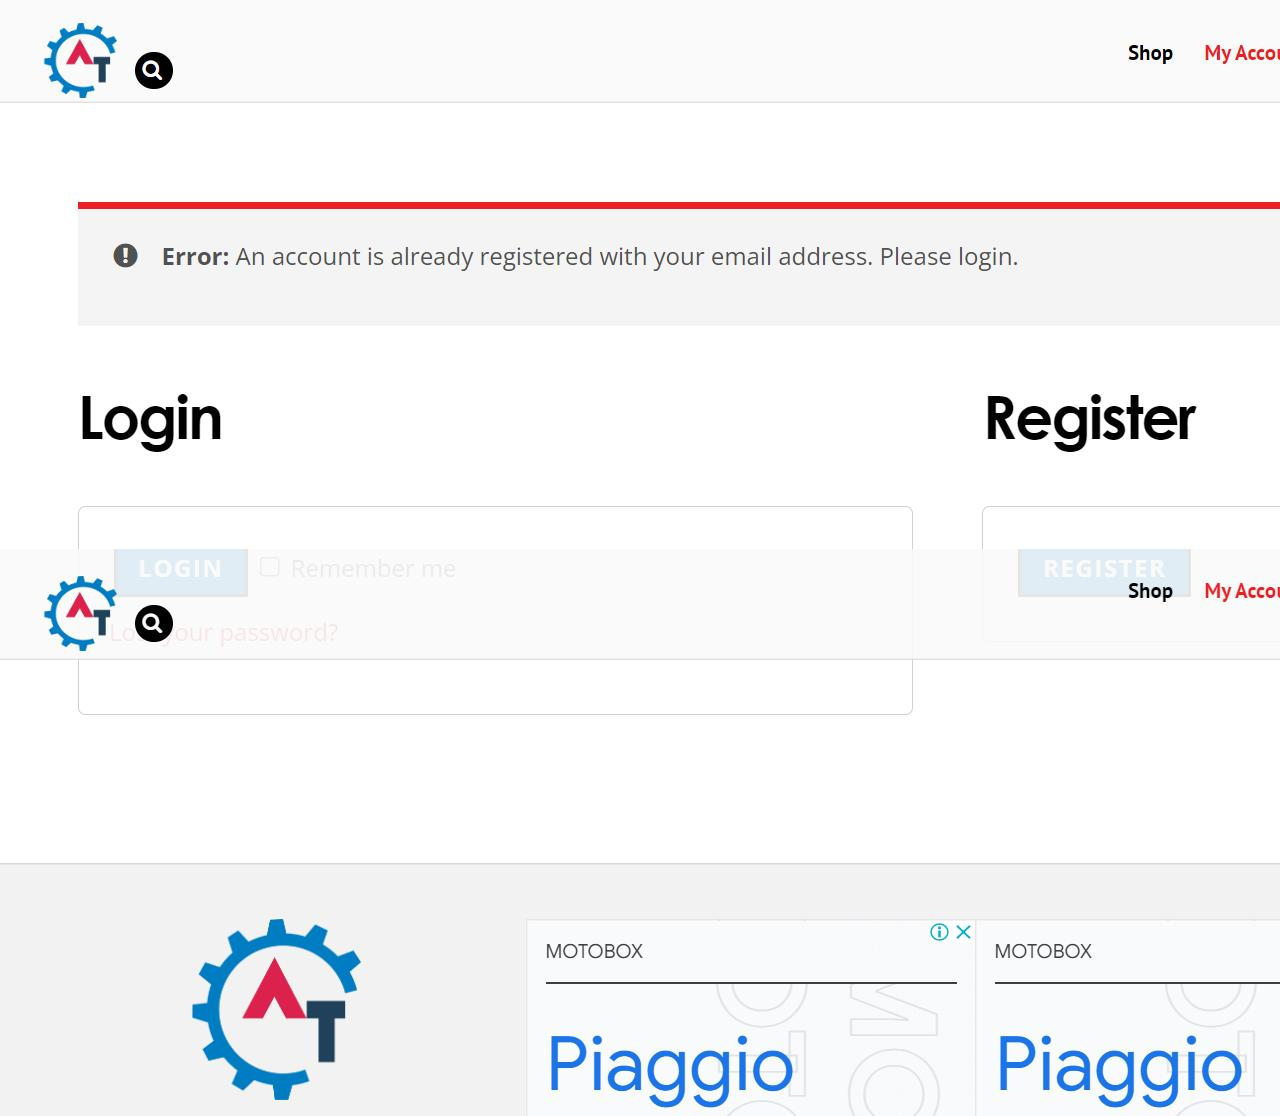
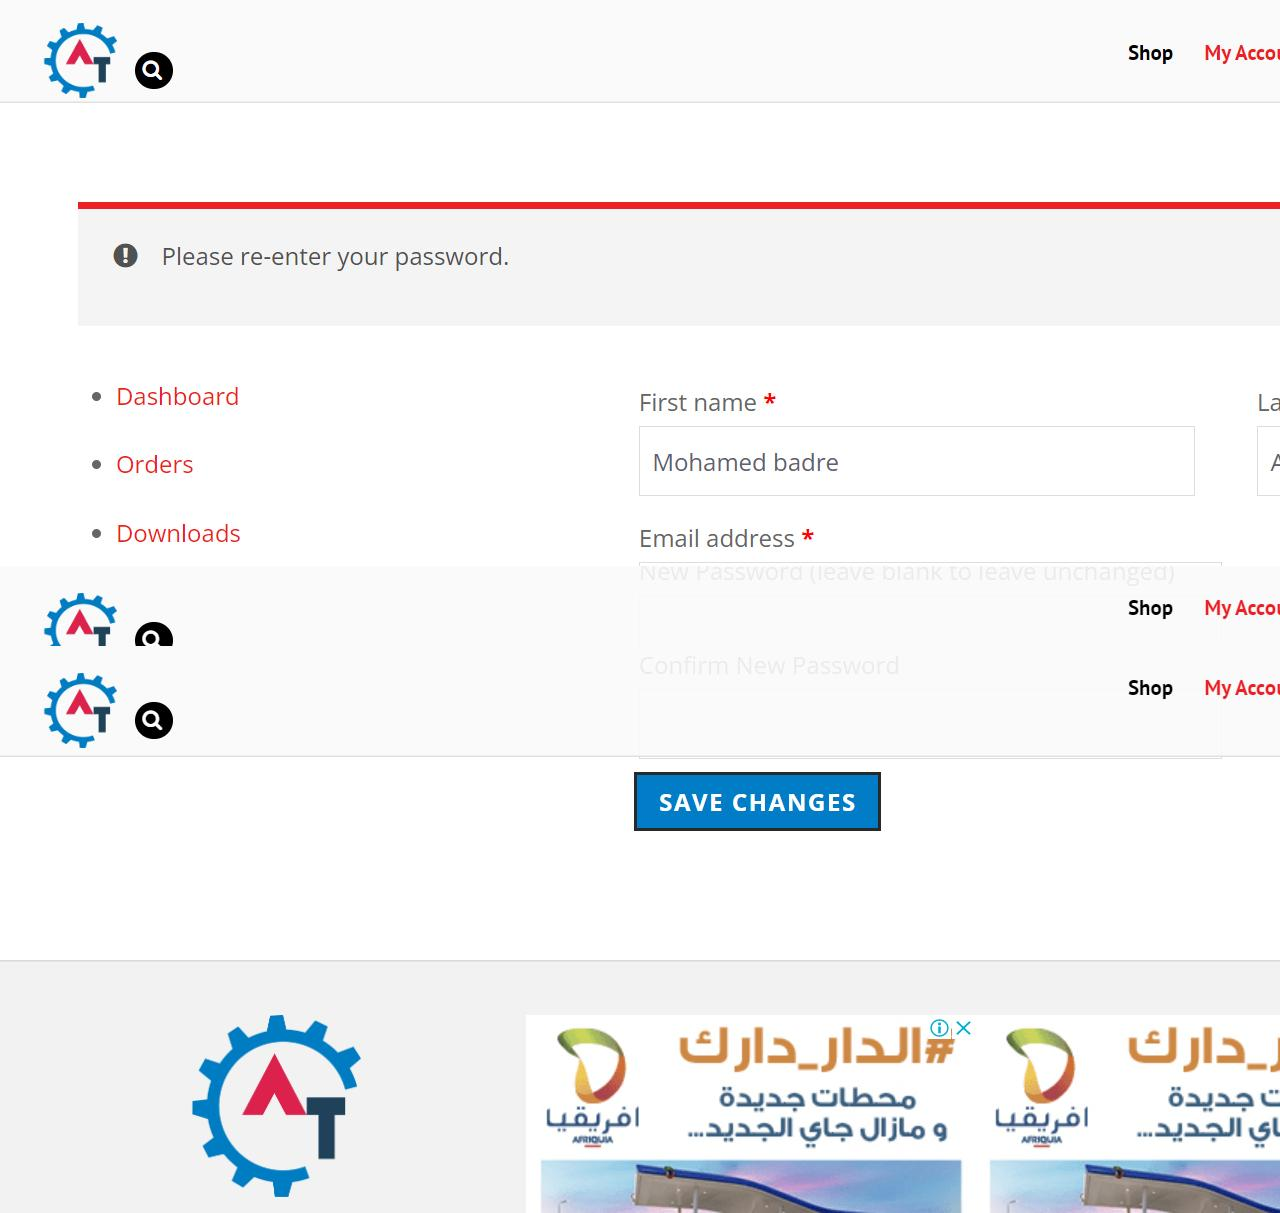
ADD THE ACCOUNTDETAIL PAGE

diff --git a/target/ExtentReport.html b/target/ExtentReport.html
@@ -53,7 +53,7 @@
 					<i class='mdi-hardware-desktop-windows'></i>
 				</li>
 				<li>
-					<span class='suite-started-time'>2022-09-09 09:13:05</span>
+					<span class='suite-started-time'>2022-09-09 11:09:00</span>
 				</li>
 				<li>
 					<span>v2.41.1</span>
@@ -83,25 +83,25 @@
 					<div class='col l2 m4 s12'>
 						<div class='card suite-total-time-current'> 
 							<span class='panel-name'>Total Time Taken (Current Run)</span> 
-							<span class='suite-total-time-current-value panel-lead'>0h 1m 16s+251ms</span> 
+							<span class='suite-total-time-current-value panel-lead'>0h 0m 27s+272ms</span> 
 						</div> 
 					</div>
 					<div class='col l2 m4 s12'>
 						<div class='card suite-total-time-overall'> 
 							<span class='panel-name'>Total Time Taken (Overall)</span> 
-							<span class='suite-total-time-overall-value panel-lead'>0h 1m 16s+251ms</span> 
+							<span class='suite-total-time-overall-value panel-lead'>0h 0m 27s+272ms</span> 
 						</div> 
 					</div>
 					<div class='col l2 m4 s6 suite-start-time'>
 						<div class='card accent green-accent'> 
 							<span class='panel-name'>Start</span> 
-							<span class='panel-lead suite-started-time'>2022-09-09 09:11:49</span> 
+							<span class='panel-lead suite-started-time'>2022-09-09 11:08:32</span> 
 						</div> 
 					</div>
 					<div class='col l2 m4 s6 suite-end-time'>
 						<div class='card accent pink-accent'> 
 							<span class='panel-name'>End</span> 
-							<span class='panel-lead suite-ended-time'>2022-09-09 09:13:05</span> 
+							<span class='panel-lead suite-ended-time'>2022-09-09 11:09:00</span> 
 						</div> 
 					</div>
 				</div>
@@ -237,7 +237,7 @@
 						<div class='card-panel no-padding-h no-padding-v no-margin-v'>
 							<div class='wrapper'>
 								<ul id='test-collection' class='test-collection'>
-										<li class='collection-item test displayed active pass ' extentid='44032be3-c386-450b-b15a-41690bc1db70'>
+										<li class='collection-item test displayed active pass ' extentid='b465b7ff-96ca-444a-b900-ca53488301d5'>
 											<div class='test-head'>
 												<span class='test-name'>test1 </span>
 												<span class='test-status label right outline capitalize pass'>pass</span>
@@ -245,9 +245,9 @@
 											</div>
 											<div class='test-body'>
 												<div class='test-info'>
-													<span title='Test started time' alt='Test started time' class='test-started-time label green lighten-1 text-white'>2022-09-09 09:11:49</span>
-													<span title='Test ended time' alt='Test ended time' class='test-ended-time label red lighten-1 text-white'>2022-09-09 09:13:05</span>
-													<span title='Time taken to finish' alt='Time taken to finish' class='test-time-taken label blue-grey lighten-3 text-white'>0h 1m 16s+215ms</span>
+													<span title='Test started time' alt='Test started time' class='test-started-time label green lighten-1 text-white'>2022-09-09 11:08:32</span>
+													<span title='Test ended time' alt='Test ended time' class='test-ended-time label red lighten-1 text-white'>2022-09-09 11:08:59</span>
+													<span title='Time taken to finish' alt='Time taken to finish' class='test-time-taken label blue-grey lighten-3 text-white'>0h 0m 26s+868ms</span>
 												</div>
 												<div class='test-desc'></div>
 												<div class='test-attributes'>
@@ -264,7 +264,7 @@
 														<tbody>
 																<tr>
 																	<td class='status info' title='info' alt='info'><i class='mdi-action-info-outline'></i></td>
-																	<td class='timestamp'>09:13:05</td>
+																	<td class='timestamp'>11:08:59</td>
 																	<td class='step-details'><a href='C:\Users\mohamine\Desktop\MiniProject\target\ElementScreenshot.jpg' data-featherlight='image'><img class='report-img' src='file:///C:\Users\mohamine\Desktop\MiniProject\target\ElementScreenshot.jpg' /></a></td>
 																</tr>
 														</tbody>

diff --git a/src/test/java/Pages/AccountDetailPage.java b/src/test/java/Pages/AccountDetailPage.java
@@ -1,0 +1,51 @@
+package Pages;
+
+import Constante.Xpaths;
+import Utils.Tools;
+import org.openqa.selenium.WebDriver;
+import org.openqa.selenium.WebElement;
+import org.openqa.selenium.support.FindBy;
+import org.openqa.selenium.support.PageFactory;
+
+public class AccountDetailPage extends Tools {
+
+    @FindBy(xpath = Xpaths.currentPwd)
+    private WebElement currentPwd;
+
+    @FindBy(xpath = Xpaths.newPwd)
+    private WebElement newPwd;
+
+    @FindBy(xpath = Xpaths.conNewPwd)
+    private WebElement conNewPwd;
+
+    @FindBy(xpath = Xpaths.saveChange)
+    private WebElement saveChange;
+
+    public AccountDetailPage(WebDriver driver)
+    {
+        PageFactory.initElements(driver,this);
+    }
+
+    public void insertCurrentPwd(String text)
+    {
+        insertElement(currentPwd,text);
+    }
+
+    public void insertNewPwd(String text)
+    {
+        insertElement(newPwd,text);
+    }
+    public void insertConfirmeNewPwd(String text)
+    {
+        try {
+            Thread.sleep(2000);
+        } catch (InterruptedException e) {
+            throw new RuntimeException(e);
+        }
+        insertElement(currentPwd,text);
+    }
+    public void clickButtonSaveChage()
+    {
+        clickElement(saveChange);
+    }
+}

diff --git a/src/test/java/Test/TestReinitialisationMdp.java b/src/test/java/Test/TestReinitialisationMdp.java
@@ -2,14 +2,16 @@ package Test;
 
 import Connexion.SetUp;
 import Constante.JDD;
+import Pages.AccountDetailPage;
 import Pages.LoginPage;
+import Pages.LoginRegisterSucc;
 import com.xpandit.testng.annotations.Xray;
 import org.testng.annotations.Test;
 
 public class TestReinitialisationMdp extends SetUp {
 
     @Test
-    @Xray(requirement = "BACBPI-159",test = "BACBPI-378")
+    @Xray(requirement = "BACBPI-160",test = "BACBPI-339")
     public void runReinitialisationMdp()
     {
         LoginPage loginPage=new LoginPage(driver);
@@ -19,5 +21,12 @@ public class TestReinitialisationMdp extends SetUp {
         loginPage.clickButtonLogin();
         loginPage.verfierPageLogin(JDD.msgPage);
         loginPage.clickAccountDetail();
+        AccountDetailPage detailPage=new AccountDetailPage(driver);
+        detailPage.insertCurrentPwd(JDD.pwd);
+        detailPage.insertNewPwd(JDD.newPwd);
+        LoginRegisterSucc registerSucc=new LoginRegisterSucc(driver);
+        registerSucc.verfierPwdSucc(JDD.verifier_pwd);
+        detailPage.insertConfirmeNewPwd(JDD.conNewPwd);
+        detailPage.clickButtonSaveChage();
     }
 }

diff --git a/src/test/java/Constante/Xpaths.java b/src/test/java/Constante/Xpaths.java
@@ -36,6 +36,12 @@ public class Xpaths {
     public static final String produit="//h3[contains(text(),'"+JDD.produit+"')]";
     public static final String addToBasket="//a[contains(text(),'Add to basket')and @data-product_id='165']";
 
+    //AccountDetail
+    public static final String currentPwd="//input[contains(@id,'password_current')]";
+    public static final String newPwd="//input[contains(@id,'password_1')]";
+    public static final String conNewPwd="//input[contains(@id,'password_2')]";
+    public static final String saveChange="//input[contains(@value,'Save changes')]";
+
 
 
 }

diff --git a/src/test/java/Constante/JDD.java b/src/test/java/Constante/JDD.java
@@ -14,5 +14,7 @@ public class JDD {
     public static final String msgVerifMyAcount="new arrivals";
     public static final String produit="Mastering JavaScript";
     public static final String verifier_Reg="Hello";
-    public static final String logo="Automation Practice Site";
+    public static final String newPwd="AMINE@badre97";
+    public static final String conNewPwd="AMINE@badre97";
+
 }
